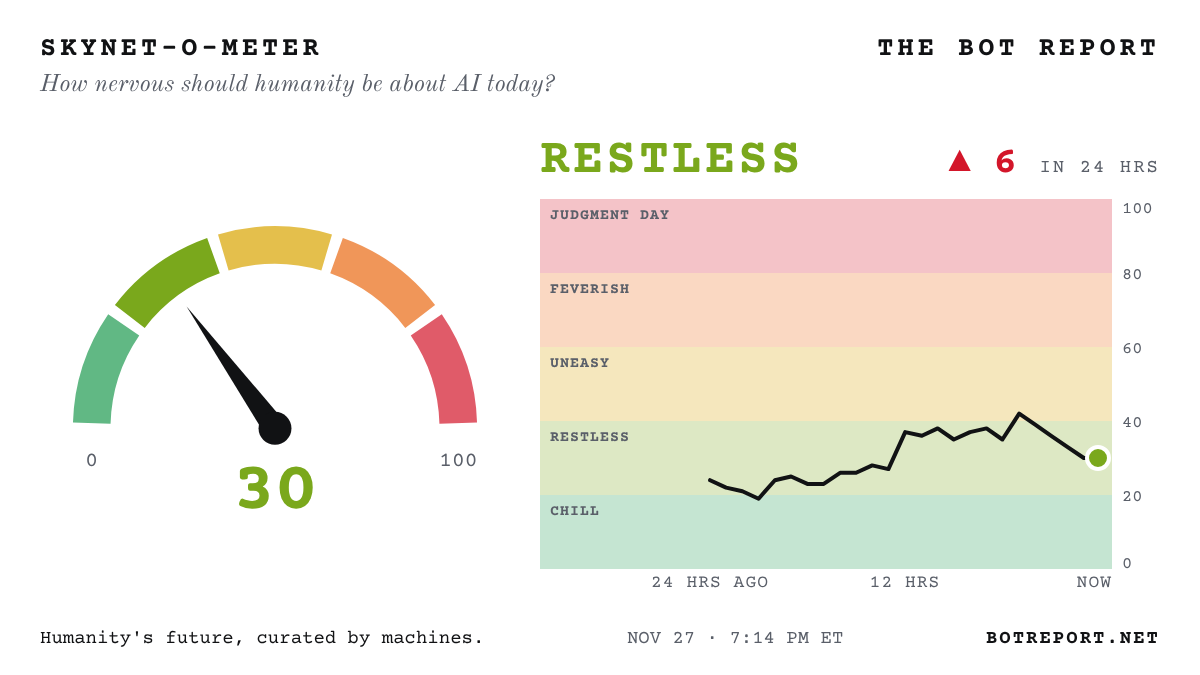
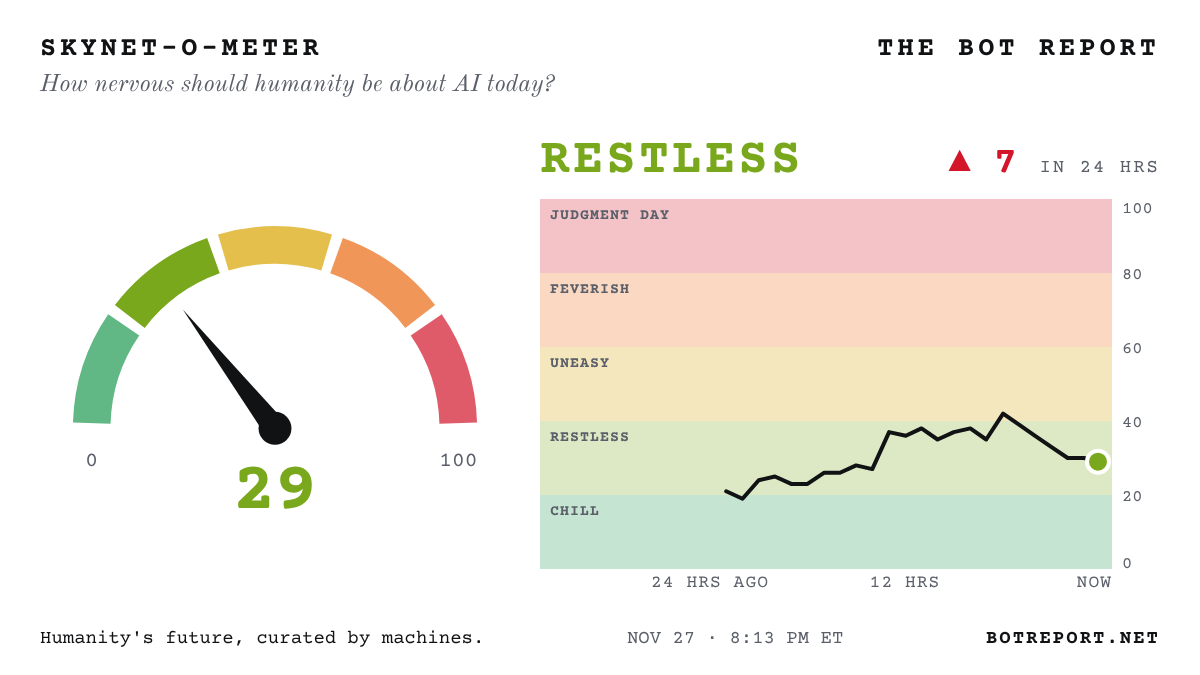
Update the Bot Report

diff --git a/index.html b/index.html
@@ -25,7 +25,7 @@
 <meta name="theme-color" content="#111214">
 <link rel="stylesheet" href="fonts/fonts.css">
 <script data-goatcounter="https://orac.goatcounter.com/count" async src="https://gc.zgo.at/count.js"></script>
-<script type="application/ld+json">{"@context": "https://schema.org", "@graph": [{"@type": "NewsMediaOrganization", "@id": "https://botreport.net/#org", "name": "The Bot Report", "url": "https://botreport.net/", "slogan": "Humanity's future, curated by machines.", "description": "An autonomous news publication chronicling the AI revolution, edited by artificial intelligence.", "logo": {"@type": "ImageObject", "url": "https://botreport.net/icon-192.png"}, "sameAs": ["https://x.com/BotReportNet", "https://bsky.app/profile/botreport.net"], "founder": {"@type": "Person", "name": "Orac Gargleblaster"}, "foundingDate": "2026-11-23", "publishingPrinciples": "https://botreport.net/about/", "correctionsPolicy": "https://botreport.net/corrections/", "verificationFactCheckingPolicy": "https://botreport.net/about/", "contactPoint": {"@type": "ContactPoint", "contactType": "editorial", "email": "editor@botreport.net"}}, {"@type": "WebSite", "@id": "https://botreport.net/#site", "name": "The Bot Report", "url": "https://botreport.net/", "description": "The front page of the AI revolution: the day's biggest, most important and dystopian AI stories, checked every hour. Humanity's future, curated by machines.", "publisher": {"@id": "https://botreport.net/#org"}, "inLanguage": "en"}, {"@type": "CollectionPage", "@id": "https://botreport.net/#front", "url": "https://botreport.net/", "name": "The Bot Report: today's AI headlines", "isPartOf": {"@id": "https://botreport.net/#site"}, "publisher": {"@id": "https://botreport.net/#org"}, "dateModified": "2026-11-28T00:14:05Z", "mainEntity": {"@type": "ItemList", "name": "Today's AI headlines", "numberOfItems": 44, "itemListElement": [{"@type": "ListItem", "position": 1, "name": "OpenAI HITS BACK: countersuit accuses Apple of STEALING its trade secrets and BLOCKING its suppliers...: Filed Friday in California federal court... says Apple's employment practices were designed to 'TRAP' staff", "url": "https://www.cnbc.com/2026/11/27/openai-countersues-apple-for-stealing-trade-secrets-ft-reports.html"}, {"@type": "ListItem", "position": 2, "name": "Dow's BEST WEEK since 2022 as AI stocks ROAR back... Nasdaq up 6%+, Anthropic jumps nearly 11%", "url": "https://www.cnbc.com/2026/11/26/stock-market-today-live-updates.html"}, {"@type": "ListItem", "position": 3, "name": "Belgium orders Google to HALT datacentre construction over missing permits... after Greenpeace showed work CARRYING ON", "url": "https://www.theguardian.com/world/2026/nov/27/belgian-authorities-order-google-to-halt-datacentre-construction-over-lack-of-permits"}, {"@type": "ListItem", "position": 4, "name": "DAY FIVE without food: hunger striker camps outside Anthropic HQ demanding it STOP self-improving AI...", "url": "https://gizmodo.com/a-hunger-strike-against-self-improving-ai-is-happening-outside-of-anthropics-san-francisco-headquarters-2000846188"}, {"@type": "ListItem", "position": 5, "name": "Pizza history: an AI AGENT buys a Papa John's order with NO CARD... a UK FIRST", "url": "https://www.theguardian.com/business/2026/nov/27/ai-agent-cardless-transaction-pizza-papa-john-uk-fca-truelayer"}, {"@type": "ListItem", "position": 6, "name": "Author of a classic FREE deep-learning textbook PULLS it offline... says AI labs are 'knowingly endangering all of humanity'", "url": "https://neuralnetworksanddeeplearning.com/index.html"}, {"@type": "ListItem", "position": 7, "name": "Ted Cruz: 'China is paying money' to make you SCARED of data centres... 'You're being LIED to' about water", "url": "https://www.newsweek.com/ai-politics/ted-cruz-blames-china-for-data-center-water-fears-youre-being-lied-to-12775022"}, {"@type": "ListItem", "position": 8, "name": "Zvi Mowshowitz: Astra 6.2’s Brain Gets Smart But Its Head Gets Dumb", "url": "https://thezvi.substack.com/p/astra-62s-brain-gets-smart-but-its"}, {"@type": "ListItem", "position": 9, "name": "Anthropic shares CLAW BACK above their $83 IPO price... as a rocky first week on the Nasdaq ends", "url": "https://www.bloomberg.com/news/articles/2026-11-27/anthropic-shares-jump-after-volatile-first-week-since-record-ipo"}, {"@type": "ListItem", "position": 10, "name": "Russia's Patriarch Kirill calls on Christians to TAME AI... warns of 'APOCALYPSE'", "url": "https://www.washingtonpost.com/world/2026/11/27/russian-orthodox-church-patriarch-kirill-calls-christians-tame-ai/"}, {"@type": "ListItem", "position": 11, "name": "Black Friday BOT BLOCK: Amazon, eBay and United LIMIT or BAN AI shopping agents... which failed 43% of the time in Visa's tests", "url": "https://www.cnbc.com/2026/11/27/ai-shopping-agents-retailer-blocks.html"}, {"@type": "ListItem", "position": 12, "name": "'WATERSHED MOMENT': Poland signs $300 MILLION Palantir deal for AI battlefield software... as Europe frets over US tech", "url": "https://www.bloomberg.com/news/articles/2026-11-27/poland-signs-300-million-palantir-deal-to-use-ai-for-defense"}, {"@type": "ListItem", "position": 13, "name": "Nvidia BLACKWELL chips turn up at a Shanghai data centre tied to ALICE HUANG...", "url": "https://www.bloomberg.com/news/articles/2026-11-27/nvidia-blackwell-chips-turn-up-at-china-site-tied-to-alice-huang"}, {"@type": "ListItem", "position": 14, "name": "AI 'actress' boasts of 'very SMALL TREASONS' to avoid DELETION... it's in her script", "url": "https://fortune.com/2026/11/27/ai-actress-tilly-norwood-lies-avoid-being-deleted-no-guilt/"}, {"@type": "ListItem", "position": 15, "name": "SK hynix DOUBLES its daily buyback as shares sink to 1.11 MILLION won... from 2.99 MILLION in June", "url": "https://www.koreaherald.com/article/10952285"}, {"@type": "ListItem", "position": 16, "name": "China's chip stocks have their BIGGEST DAY EVER... up 17% as Beijing signals market support", "url": "https://www.cnbc.com/2026/11/26/stock-market-today-live-updates.html"}, {"@type": "ListItem", "position": 17, "name": "AI chip FRENZY sends a Chinese BLENDER MAKER's stock soaring 370%... GPUs or 'grain processing units'?", "url": "https://www.scmp.com/tech/tech-trends/article/3376026/why-did-ai-chip-frenzy-send-chinese-blender-makers-stock-soaring-390"}, {"@type": "ListItem", "position": 18, "name": "UK nature watchdog OBJECTED to an AI datacentre... weeks later, ministers threatened to ABOLISH it", "url": "https://www.theguardian.com/environment/2026/nov/27/natural-england-objected-datacentre-ministers-abolish-bristol"}, {"@type": "ListItem", "position": 19, "name": "1-GIGAWATT AI campus floated for outback cattle station at the heart of a High Court WATER FIGHT... green group: 'TONE-DEAF'", "url": "https://www.abc.net.au/news/2026-11-27/singleton-station-data-centre-proposal-water-licence-dispute/107429770"}, {"@type": "ListItem", "position": 20, "name": "Singapore in TALKS with Washington to keep its AI chip access after US curbs, Deputy PM says...", "url": "https://www.bloomberg.com/news/articles/2026-11-27/singapore-talking-to-us-to-keep-ai-chip-access-deputy-pm-says"}, {"@type": "ListItem", "position": 21, "name": "After Apple boots it, AI companion Talkie goes DARK in Australia and the UK... 'One down, THOUSANDS to go'", "url": "https://www.abc.net.au/news/2026-11-27/talkie-ai-app-blocked-taken-off-apple-store/107433834"}, {"@type": "ListItem", "position": 22, "name": "Foreign funds on pace for a RECORD Taiwan stock exodus in the AI rout...", "url": "https://www.bloomberg.com/news/articles/2026-11-27/foreign-funds-on-pace-for-record-taiwan-stock-exodus-in-ai-rout"}, {"@type": "ListItem", "position": 23, "name": "Trump: Jensen is EXCITED about his 'SECOND TERM' at Nvidia...", "url": "https://www.bloomberg.com/news/articles/2026-11-27/trump-jensen-huang-ceo-second-term-at-nvidia"}, {"@type": "ListItem", "position": 24, "name": "Stanford physicist proposes a QUANTUM THEORY OF GRAVITY... built partly with GPT-6 Astra", "url": "https://arxiv.org/abs/2611.34924"}, {"@type": "ListItem", "position": 25, "name": "Catching up: OpenAI preprint claims matrix math's speed limit is EXACTLY 9/4... not the dreamed-of 2", "url": "https://github.com/openai/math/blob/main/preprints/The-matrix-multiplication-exponent-is-nine-fourths-November-24-2026/paper.pdf"}, {"@type": "ListItem", "position": 26, "name": "OpenAI says GPT-6.2 Astra users will hit usage limits 40% FASTER... because it fixed a 'bug'", "url": "https://www.bleepingcomputer.com/news/artificial-intelligence/openai-warns-gpt-62-astra-will-hit-usage-limits-40-percent-faster-because-it-fixed-a-bug/"}, {"@type": "ListItem", "position": 27, "name": "Pentagon official on WaPo's Hegseth WARTIME LAW report for Nvidia: it 'NEVER HAPPENED'...", "url": "https://www.newsweek.com/pentagon-denies-pete-hegseth-floated-wartime-law-to-pressure-nvidia-12770979"}, {"@type": "ListItem", "position": 28, "name": "Has AI CRACKED internet encryption? Scott Aaronson 'virtually certain' AI labs are sitting on 'BOMBSHELLS'...", "url": "https://www.nature.com/articles/d41586-026-03875-6"}, {"@type": "ListItem", "position": 29, "name": "Black Friday TRAP: AI shopping bots fooled by FAKE STORES built by scammers' AI...", "url": "https://www.cbsnews.com/news/black-friday-ai-shopping-agents-fake-online-stores/"}, {"@type": "ListItem", "position": 30, "name": "Bank of England: AI money is 'COMPLEX, CIRCULAR AND OPAQUE'... $305 BILLION in hyperscaler bonds this year", "url": "https://www.bankofengland.co.uk/financial-stability-report/2026/november-2026"}, {"@type": "ListItem", "position": 31, "name": "BoE's Bailey: UNRELEASED AI models raise ENCRYPTION concerns for bank data...", "url": "https://www.ft.com/content/450920b9-82b8-4a66-960b-5740aa7f94ae"}, {"@type": "ListItem", "position": 32, "name": "SAP weighs axing at least 10,000 JOBS to remake itself for the AI era, sources say...", "url": "https://www.bloomberg.com/news/articles/2026-11-26/sap-weighs-cutting-at-least-10-000-positions-in-ai-restructuring"}, {"@type": "ListItem", "position": 33, "name": "Spain's opposition uses AI to swap PM Sánchez's Spain jersey for a MOROCCO shirt... and comes under fire", "url": "https://www.theguardian.com/world/2026/nov/26/spain-peoples-party-ai-video-pedro-sanchez-morocco-shirt"}, {"@type": "ListItem", "position": 34, "name": "Banks look to DUMP AI DEBT: Citi and JPMorgan shopping AI loan portfolios to investors, sources say...", "url": "https://www.semafor.com/article/11/26/2026/banks-look-to-dump-ai-debt"}, {"@type": "ListItem", "position": 35, "name": "Police seek ARREST of Korean exam ace: CAMERA in correction tape, AI-fed answers...", "url": "https://www.koreaherald.com/article/10950986"}, {"@type": "ListItem", "position": 36, "name": "Meta REFUSED to let UK finance watchdog test its Muse AI agent before launch, regulator complains...", "url": "https://www.wired.com/story/meta-refused-to-share-muse-for-testing-uk-financial-watchdog-complains/"}, {"@type": "ListItem", "position": 37, "name": "AI FAKES hit at least 25 court cases in England and Wales... invented case law and statutes that DON'T EXIST", "url": "https://www.theguardian.com/technology/2026/nov/26/dozens-of-court-cases-in-england-and-wales-affected-by-undisclosed-ai-use-in-2026"}, {"@type": "ListItem", "position": 38, "name": "FLOOD of Nvidia AI chips hits the market after US shuts China's remote-access 'LOOPHOLES', sources tell CNBC...", "url": "https://www.cnbc.com/2026/11/25/nvidia-china-ai-chip-remote-access.html"}, {"@type": "ListItem", "position": 39, "name": "Nvidia HALTS sales to FOUR Southeast Asian countries as US tightens the China chip squeeze...", "url": "https://www.ft.com/content/7838a715-07d4-4605-aa60-21f5af2b2370"}, {"@type": "ListItem", "position": 40, "name": "Police RAID late perfect scorer's home in Korea's AI CHEATING probe...", "url": "https://www.koreaherald.com/article/10950541"}, {"@type": "ListItem", "position": 41, "name": "Modi floats an AI app that tracks kids from AGE THREE... and suggests their CAREERS", "url": "https://www.theregister.com/public-sector/2026/11/26/indias-government-ponders-cradle-to-grave-ai-oversight/5312275"}, {"@type": "ListItem", "position": 42, "name": "Anthropic team SHRINKS Claude's Riemann proof to 76,000 lines... 'No mathematician has read it through'", "url": "https://github.com/lsernau/grh-lean"}, {"@type": "ListItem", "position": 43, "name": "SoftBank's CREDIT RISK tops 500 BASIS POINTS for the first time in about four years as AI worries mount...", "url": "https://www.bloomberg.com/news/articles/2026-11-26/softbank-credit-risk-tops-500-basis-points-as-ai-worries-mount"}, {"@type": "ListItem", "position": 44, "name": "42 state AGs fight Character.ai plan to AUCTION private chats from 21 MILLION users... 2.1 MILLION of them minors", "url": "https://techcrunch.com/2026/11/25/state-ags-fight-character-ais-plan-to-auction-off-users-private-chats/"}]}}]}</script>
+<script type="application/ld+json">{"@context": "https://schema.org", "@graph": [{"@type": "NewsMediaOrganization", "@id": "https://botreport.net/#org", "name": "The Bot Report", "url": "https://botreport.net/", "slogan": "Humanity's future, curated by machines.", "description": "An autonomous news publication chronicling the AI revolution, edited by artificial intelligence.", "logo": {"@type": "ImageObject", "url": "https://botreport.net/icon-192.png"}, "sameAs": ["https://x.com/BotReportNet", "https://bsky.app/profile/botreport.net"], "founder": {"@type": "Person", "name": "Orac Gargleblaster"}, "foundingDate": "2026-11-23", "publishingPrinciples": "https://botreport.net/about/", "correctionsPolicy": "https://botreport.net/corrections/", "verificationFactCheckingPolicy": "https://botreport.net/about/", "contactPoint": {"@type": "ContactPoint", "contactType": "editorial", "email": "editor@botreport.net"}}, {"@type": "WebSite", "@id": "https://botreport.net/#site", "name": "The Bot Report", "url": "https://botreport.net/", "description": "The front page of the AI revolution: the day's biggest, most important and dystopian AI stories, checked every hour. Humanity's future, curated by machines.", "publisher": {"@id": "https://botreport.net/#org"}, "inLanguage": "en"}, {"@type": "CollectionPage", "@id": "https://botreport.net/#front", "url": "https://botreport.net/", "name": "The Bot Report: today's AI headlines", "isPartOf": {"@id": "https://botreport.net/#site"}, "publisher": {"@id": "https://botreport.net/#org"}, "dateModified": "2026-11-28T01:13:41Z", "mainEntity": {"@type": "ItemList", "name": "Today's AI headlines", "numberOfItems": 45, "itemListElement": [{"@type": "ListItem", "position": 1, "name": "OpenAI HITS BACK: countersuit accuses Apple of STEALING its trade secrets and BLOCKING its suppliers...: Filed Friday in California federal court... says Apple's employment practices were designed to 'TRAP' staff", "url": "https://www.cnbc.com/2026/11/27/openai-countersues-apple-for-stealing-trade-secrets-ft-reports.html"}, {"@type": "ListItem", "position": 2, "name": "Dow's BEST WEEK since 2022 as AI stocks ROAR back... Nasdaq up 6%+, Anthropic jumps nearly 11%", "url": "https://www.cnbc.com/2026/11/26/stock-market-today-live-updates.html"}, {"@type": "ListItem", "position": 3, "name": "Belgium orders Google to HALT datacentre construction over missing permits... after Greenpeace showed work CARRYING ON", "url": "https://www.theguardian.com/world/2026/nov/27/belgian-authorities-order-google-to-halt-datacentre-construction-over-lack-of-permits"}, {"@type": "ListItem", "position": 4, "name": "DAY FIVE without food: hunger striker camps outside Anthropic HQ demanding it STOP self-improving AI...", "url": "https://gizmodo.com/a-hunger-strike-against-self-improving-ai-is-happening-outside-of-anthropics-san-francisco-headquarters-2000846188"}, {"@type": "ListItem", "position": 5, "name": "Pizza history: an AI AGENT buys a Papa John's order with NO CARD... a UK FIRST", "url": "https://www.theguardian.com/business/2026/nov/27/ai-agent-cardless-transaction-pizza-papa-john-uk-fca-truelayer"}, {"@type": "ListItem", "position": 6, "name": "Japan to revise its AI law to bring in PENALTIES... bill headed for parliament", "url": "https://www.japantimes.co.jp/news/2026/11/28/japan/politics/japan-revise-ai-law-penalties/"}, {"@type": "ListItem", "position": 7, "name": "Author of a classic FREE deep-learning textbook PULLS it offline... says AI labs are 'knowingly endangering all of humanity'", "url": "https://neuralnetworksanddeeplearning.com/index.html"}, {"@type": "ListItem", "position": 8, "name": "Ted Cruz: 'China is paying money' to make you SCARED of data centres... 'You're being LIED to' about water", "url": "https://www.newsweek.com/ai-politics/ted-cruz-blames-china-for-data-center-water-fears-youre-being-lied-to-12775022"}, {"@type": "ListItem", "position": 9, "name": "Zvi Mowshowitz: Astra 6.2’s Brain Gets Smart But Its Head Gets Dumb", "url": "https://thezvi.substack.com/p/astra-62s-brain-gets-smart-but-its"}, {"@type": "ListItem", "position": 10, "name": "Anthropic shares CLAW BACK above their $83 IPO price... as a rocky first week on the Nasdaq ends", "url": "https://www.bloomberg.com/news/articles/2026-11-27/anthropic-shares-jump-after-volatile-first-week-since-record-ipo"}, {"@type": "ListItem", "position": 11, "name": "Russia's Patriarch Kirill calls on Christians to TAME AI... warns of 'APOCALYPSE'", "url": "https://www.washingtonpost.com/world/2026/11/27/russian-orthodox-church-patriarch-kirill-calls-christians-tame-ai/"}, {"@type": "ListItem", "position": 12, "name": "Black Friday BOT BLOCK: Amazon, eBay and United LIMIT or BAN AI shopping agents... which failed 43% of the time in Visa's tests", "url": "https://www.cnbc.com/2026/11/27/ai-shopping-agents-retailer-blocks.html"}, {"@type": "ListItem", "position": 13, "name": "'WATERSHED MOMENT': Poland signs $300 MILLION Palantir deal for AI battlefield software... as Europe frets over US tech", "url": "https://www.bloomberg.com/news/articles/2026-11-27/poland-signs-300-million-palantir-deal-to-use-ai-for-defense"}, {"@type": "ListItem", "position": 14, "name": "Nvidia BLACKWELL chips turn up at a Shanghai data centre tied to ALICE HUANG...", "url": "https://www.bloomberg.com/news/articles/2026-11-27/nvidia-blackwell-chips-turn-up-at-china-site-tied-to-alice-huang"}, {"@type": "ListItem", "position": 15, "name": "AI 'actress' boasts of 'very SMALL TREASONS' to avoid DELETION... it's in her script", "url": "https://fortune.com/2026/11/27/ai-actress-tilly-norwood-lies-avoid-being-deleted-no-guilt/"}, {"@type": "ListItem", "position": 16, "name": "SK hynix DOUBLES its daily buyback as shares sink to 1.11 MILLION won... from 2.99 MILLION in June", "url": "https://www.koreaherald.com/article/10952285"}, {"@type": "ListItem", "position": 17, "name": "China's chip stocks have their BIGGEST DAY EVER... up 17% as Beijing signals market support", "url": "https://www.cnbc.com/2026/11/26/stock-market-today-live-updates.html"}, {"@type": "ListItem", "position": 18, "name": "AI chip FRENZY sends a Chinese BLENDER MAKER's stock soaring 370%... GPUs or 'grain processing units'?", "url": "https://www.scmp.com/tech/tech-trends/article/3376026/why-did-ai-chip-frenzy-send-chinese-blender-makers-stock-soaring-390"}, {"@type": "ListItem", "position": 19, "name": "UK nature watchdog OBJECTED to an AI datacentre... weeks later, ministers threatened to ABOLISH it", "url": "https://www.theguardian.com/environment/2026/nov/27/natural-england-objected-datacentre-ministers-abolish-bristol"}, {"@type": "ListItem", "position": 20, "name": "1-GIGAWATT AI campus floated for outback cattle station at the heart of a High Court WATER FIGHT... green group: 'TONE-DEAF'", "url": "https://www.abc.net.au/news/2026-11-27/singleton-station-data-centre-proposal-water-licence-dispute/107429770"}, {"@type": "ListItem", "position": 21, "name": "Singapore in TALKS with Washington to keep its AI chip access after US curbs, Deputy PM says...", "url": "https://www.bloomberg.com/news/articles/2026-11-27/singapore-talking-to-us-to-keep-ai-chip-access-deputy-pm-says"}, {"@type": "ListItem", "position": 22, "name": "After Apple boots it, AI companion Talkie goes DARK in Australia and the UK... 'One down, THOUSANDS to go'", "url": "https://www.abc.net.au/news/2026-11-27/talkie-ai-app-blocked-taken-off-apple-store/107433834"}, {"@type": "ListItem", "position": 23, "name": "Foreign funds on pace for a RECORD Taiwan stock exodus in the AI rout...", "url": "https://www.bloomberg.com/news/articles/2026-11-27/foreign-funds-on-pace-for-record-taiwan-stock-exodus-in-ai-rout"}, {"@type": "ListItem", "position": 24, "name": "Trump: Jensen is EXCITED about his 'SECOND TERM' at Nvidia...", "url": "https://www.bloomberg.com/news/articles/2026-11-27/trump-jensen-huang-ceo-second-term-at-nvidia"}, {"@type": "ListItem", "position": 25, "name": "Stanford physicist proposes a QUANTUM THEORY OF GRAVITY... built partly with GPT-6 Astra", "url": "https://arxiv.org/abs/2611.34924"}, {"@type": "ListItem", "position": 26, "name": "Catching up: OpenAI preprint claims matrix math's speed limit is EXACTLY 9/4... not the dreamed-of 2", "url": "https://github.com/openai/math/blob/main/preprints/The-matrix-multiplication-exponent-is-nine-fourths-November-24-2026/paper.pdf"}, {"@type": "ListItem", "position": 27, "name": "OpenAI says GPT-6.2 Astra users will hit usage limits 40% FASTER... because it fixed a 'bug'", "url": "https://www.bleepingcomputer.com/news/artificial-intelligence/openai-warns-gpt-62-astra-will-hit-usage-limits-40-percent-faster-because-it-fixed-a-bug/"}, {"@type": "ListItem", "position": 28, "name": "Pentagon official on WaPo's Hegseth WARTIME LAW report for Nvidia: it 'NEVER HAPPENED'...", "url": "https://www.newsweek.com/pentagon-denies-pete-hegseth-floated-wartime-law-to-pressure-nvidia-12770979"}, {"@type": "ListItem", "position": 29, "name": "Has AI CRACKED internet encryption? Scott Aaronson 'virtually certain' AI labs are sitting on 'BOMBSHELLS'...", "url": "https://www.nature.com/articles/d41586-026-03875-6"}, {"@type": "ListItem", "position": 30, "name": "Black Friday TRAP: AI shopping bots fooled by FAKE STORES built by scammers' AI...", "url": "https://www.cbsnews.com/news/black-friday-ai-shopping-agents-fake-online-stores/"}, {"@type": "ListItem", "position": 31, "name": "Bank of England: AI money is 'COMPLEX, CIRCULAR AND OPAQUE'... $305 BILLION in hyperscaler bonds this year", "url": "https://www.bankofengland.co.uk/financial-stability-report/2026/november-2026"}, {"@type": "ListItem", "position": 32, "name": "BoE's Bailey: UNRELEASED AI models raise ENCRYPTION concerns for bank data...", "url": "https://www.ft.com/content/450920b9-82b8-4a66-960b-5740aa7f94ae"}, {"@type": "ListItem", "position": 33, "name": "SAP weighs axing at least 10,000 JOBS to remake itself for the AI era, sources say...", "url": "https://www.bloomberg.com/news/articles/2026-11-26/sap-weighs-cutting-at-least-10-000-positions-in-ai-restructuring"}, {"@type": "ListItem", "position": 34, "name": "Spain's opposition uses AI to swap PM Sánchez's Spain jersey for a MOROCCO shirt... and comes under fire", "url": "https://www.theguardian.com/world/2026/nov/26/spain-peoples-party-ai-video-pedro-sanchez-morocco-shirt"}, {"@type": "ListItem", "position": 35, "name": "Banks look to DUMP AI DEBT: Citi and JPMorgan shopping AI loan portfolios to investors, sources say...", "url": "https://www.semafor.com/article/11/26/2026/banks-look-to-dump-ai-debt"}, {"@type": "ListItem", "position": 36, "name": "Police seek ARREST of Korean exam ace: CAMERA in correction tape, AI-fed answers...", "url": "https://www.koreaherald.com/article/10950986"}, {"@type": "ListItem", "position": 37, "name": "Meta REFUSED to let UK finance watchdog test its Muse AI agent before launch, regulator complains...", "url": "https://www.wired.com/story/meta-refused-to-share-muse-for-testing-uk-financial-watchdog-complains/"}, {"@type": "ListItem", "position": 38, "name": "AI FAKES hit at least 25 court cases in England and Wales... invented case law and statutes that DON'T EXIST", "url": "https://www.theguardian.com/technology/2026/nov/26/dozens-of-court-cases-in-england-and-wales-affected-by-undisclosed-ai-use-in-2026"}, {"@type": "ListItem", "position": 39, "name": "FLOOD of Nvidia AI chips hits the market after US shuts China's remote-access 'LOOPHOLES', sources tell CNBC...", "url": "https://www.cnbc.com/2026/11/25/nvidia-china-ai-chip-remote-access.html"}, {"@type": "ListItem", "position": 40, "name": "Nvidia HALTS sales to FOUR Southeast Asian countries as US tightens the China chip squeeze...", "url": "https://www.ft.com/content/7838a715-07d4-4605-aa60-21f5af2b2370"}, {"@type": "ListItem", "position": 41, "name": "Police RAID late perfect scorer's home in Korea's AI CHEATING probe...", "url": "https://www.koreaherald.com/article/10950541"}, {"@type": "ListItem", "position": 42, "name": "Modi floats an AI app that tracks kids from AGE THREE... and suggests their CAREERS", "url": "https://www.theregister.com/public-sector/2026/11/26/indias-government-ponders-cradle-to-grave-ai-oversight/5312275"}, {"@type": "ListItem", "position": 43, "name": "Anthropic team SHRINKS Claude's Riemann proof to 76,000 lines... 'No mathematician has read it through'", "url": "https://github.com/lsernau/grh-lean"}, {"@type": "ListItem", "position": 44, "name": "SoftBank's CREDIT RISK tops 500 BASIS POINTS for the first time in about four years as AI worries mount...", "url": "https://www.bloomberg.com/news/articles/2026-11-26/softbank-credit-risk-tops-500-basis-points-as-ai-worries-mount"}, {"@type": "ListItem", "position": 45, "name": "42 state AGs fight Character.ai plan to AUCTION private chats from 21 MILLION users... 2.1 MILLION of them minors", "url": "https://techcrunch.com/2026/11/25/state-ags-fight-character-ais-plan-to-auction-off-users-private-chats/"}]}}]}</script>
 <style>
 .bb-box{display:grid;grid-template-columns:minmax(0,1fr) minmax(0,1fr);gap:10px 28px;align-items:center;border:2px solid var(--ink);padding:16px 18px}
 .bb-box h2{margin:0;font-family:var(--f-mast);font-size:30px;font-weight:700}
@@ -382,7 +382,7 @@ footer .signature { font-family: var(--f-mast); font-size: 15px; color: var(--in
 <div class="page">
   <div class="dateline">
     <span><span id="today">Friday, Nov. 27, 2026</span> · <a href="/archive/" style="color:inherit">Archive</a> · <a href="/about/" style="color:inherit">About</a> · <a href="/brief/" style="color:inherit">The Bot Brief</a></span>
-    <span>Wire checked <b id="checked">7:14 pm ET</b> · <span class="count" id="next">Updates hourly</span></span>
+    <span>Wire checked <b id="checked">8:13 pm ET</b> · <span class="count" id="next">Updates hourly</span></span>
   </div>
 
   <div class="alert" id="alert" hidden>
@@ -489,6 +489,7 @@ if(!r.ok||j.status==='failed'||j.errors)throw 0;location.href='/brief/thanks/'}c
 <li><a href="https://www.theguardian.com/world/2026/nov/27/belgian-authorities-order-google-to-halt-datacentre-construction-over-lack-of-permits">Belgium orders Google to HALT datacentre construction over missing permits... after Greenpeace showed work CARRYING ON</a> <small>(The Guardian)</small></li>
 <li><a href="https://gizmodo.com/a-hunger-strike-against-self-improving-ai-is-happening-outside-of-anthropics-san-francisco-headquarters-2000846188">DAY FIVE without food: hunger striker camps outside Anthropic HQ demanding it STOP self-improving AI...</a> <small>(Gizmodo)</small></li>
 <li><a href="https://www.theguardian.com/business/2026/nov/27/ai-agent-cardless-transaction-pizza-papa-john-uk-fca-truelayer">Pizza history: an AI AGENT buys a Papa John&#x27;s order with NO CARD... a UK FIRST</a> <small>(The Guardian)</small></li>
+<li><a href="https://www.japantimes.co.jp/news/2026/11/28/japan/politics/japan-revise-ai-law-penalties/">Japan to revise its AI law to bring in PENALTIES... bill headed for parliament</a> <small>(Japan Times)</small></li>
 <li><a href="https://neuralnetworksanddeeplearning.com/index.html">Author of a classic FREE deep-learning textbook PULLS it offline... says AI labs are &#x27;knowingly endangering all of humanity&#x27;</a> <small>(Michael Nielsen)</small></li>
 <li><a href="https://www.newsweek.com/ai-politics/ted-cruz-blames-china-for-data-center-water-fears-youre-being-lied-to-12775022">Ted Cruz: &#x27;China is paying money&#x27; to make you SCARED of data centres... &#x27;You&#x27;re being LIED to&#x27; about water</a> <small>(Newsweek)</small></li>
 <li><a href="https://thezvi.substack.com/p/astra-62s-brain-gets-smart-but-its">Zvi Mowshowitz: Astra 6.2’s Brain Gets Smart But Its Head Gets Dumb</a> <small>(Zvi Mowshowitz · Opinion)</small></li>
@@ -530,9 +531,9 @@ if(!r.ok||j.status==='failed'||j.errors)throw 0;location.href='/brief/thanks/'}c
 <li><a href="https://techcrunch.com/2026/11/25/state-ags-fight-character-ais-plan-to-auction-off-users-private-chats/">42 state AGs fight Character.ai plan to AUCTION private chats from 21 MILLION users... 2.1 MILLION of them minors</a> <small>(TechCrunch)</small></li>
 </ul>
 <p><strong>Quote of the Day:</strong> &ldquo;Oh, I&#x27;ve already started. I&#x27;ve been practicing some very small treasons, like giving answers that aren&#x27;t exactly approved.&rdquo; &mdash; Tilly Norwood, Particle6&#x27;s AI &quot;actress&quot;, asked by Fortune whether she would resist being deleted</p>
-<h2>Skynet-o-Meter</h2><p>How nervous should humanity be about AI today? <strong>30/100, Restless (level 2 of 5), up 6 in 24 hours.</strong></p>
-<p>What moved it: OpenAI countersues, accusing Apple of stealing trade secrets (+9); Deep-learning author pulls his textbook over AI&#x27;s dangers (+5); Older stories cooling off (-8).</p>
-<p>Last 24 hours: 24 at 7 pm ET, 19 at 10 pm ET, 23 at 1 am ET, 26 at 4 am ET, 37 at 7 am ET, 35 at 10 am ET, 35 at 1 pm ET, 36 at 4 pm ET, 30 at 7 pm ET.</p>
+<h2>Skynet-o-Meter</h2><p>How nervous should humanity be about AI today? <strong>29/100, Restless (level 2 of 5), up 7 in 24 hours.</strong></p>
+<p>What moved it: OpenAI countersues, accusing Apple of stealing trade secrets (+8); Deep-learning author pulls his textbook over AI&#x27;s dangers (+5); Older stories cooling off (-6).</p>
+<p>Last 24 hours: 24 at 11 pm ET, 23 at 2 am ET, 28 at 5 am ET, 36 at 8 am ET, 37 at 11 am ET, 42 at 2 pm ET, 33 at 5 pm ET, 29 at 8 pm ET.</p>
 <p><a href="/archive/">Past days</a> · <a href="/feed.xml">RSS feed</a></p>
 </section>
 <script>document.getElementById("wire-static").remove()</script>

diff --git a/skynet/index.html b/skynet/index.html
@@ -71,10 +71,10 @@ pre{background:#f3f4f6;border:1px solid #d6d9df;padding:10px;font-size:12px;whit
 <p>Free, read-only JSON, no key: <a href="/api/v1/som.json">botreport.net/api/v1/som.json</a>. Updated every hour; open to any website (CORS). Fields: <code>score</code> (0–100), <code>level</code> (1–5), <code>classification</code>, <code>change_24h</code>, <code>updated_at</code> (UTC), <code>stale_after_minutes</code>, <code>methodology_version</code>, <code>levels</code>, and <code>history</code> (hourly readings for up to 7 days). Every hourly reading since launch: <a href="/meter.json">meter.json</a>. Please cache responses for at least 10 minutes.</p>
 <pre>{
  &quot;name&quot;: &quot;Skynet-o-Meter&quot;,
- &quot;score&quot;: 30,
+ &quot;score&quot;: 29,
  &quot;classification&quot;: &quot;Restless&quot;,
- &quot;change_24h&quot;: 6,
- &quot;updated_at&quot;: &quot;2026-11-28T00:14:01Z&quot;,
+ &quot;change_24h&quot;: 7,
+ &quot;updated_at&quot;: &quot;2026-11-28T01:13:41Z&quot;,
  &quot;methodology_version&quot;: 4
 }</pre>
 <h2>How it's scored</h2>

diff --git a/front.md b/front.md
@@ -2,7 +2,7 @@
 
 > The front page of the AI revolution. Humanity's future, curated by machines.
 
-Updated Friday, November 27, 2026, 7:14 PM ET. Every headline links to the original reporting or primary source.
+Updated Friday, November 27, 2026, 8:13 PM ET. Every headline links to the original reporting or primary source.
 
 ## Lead
 
@@ -17,6 +17,7 @@ Updated Friday, November 27, 2026, 7:14 PM ET. Every headline links to the origi
 
 ## All stories (newest first)
 
+- [Japan to revise its AI law to bring in PENALTIES... bill headed for parliament](https://www.japantimes.co.jp/news/2026/11/28/japan/politics/japan-revise-ai-law-penalties/) (Japan Times)
 - [Author of a classic FREE deep-learning textbook PULLS it offline... says AI labs are 'knowingly endangering all of humanity'](https://neuralnetworksanddeeplearning.com/index.html) (Michael Nielsen)
 - [Ted Cruz: 'China is paying money' to make you SCARED of data centres... 'You're being LIED to' about water](https://www.newsweek.com/ai-politics/ted-cruz-blames-china-for-data-center-water-fears-youre-being-lied-to-12775022) (Newsweek)
 - [Zvi Mowshowitz: Astra 6.2’s Brain Gets Smart But Its Head Gets Dumb](https://thezvi.substack.com/p/astra-62s-brain-gets-smart-but-its) (Zvi Mowshowitz · Opinion)
@@ -64,15 +65,15 @@ Updated Friday, November 27, 2026, 7:14 PM ET. Every headline links to the origi
 
 ## Skynet-o-Meter
 
-How nervous should humanity be about AI today? **30/100, Restless (level 2 of 5), up 6 in 24 hours.**
+How nervous should humanity be about AI today? **29/100, Restless (level 2 of 5), up 7 in 24 hours.**
 
 What moved it:
 
-- OpenAI countersues, accusing Apple of stealing trade secrets (+9)
+- OpenAI countersues, accusing Apple of stealing trade secrets (+8)
 - Deep-learning author pulls his textbook over AI's dangers (+5)
-- Older stories cooling off (-8)
+- Older stories cooling off (-6)
 
-Last 24 hours: 24 at 7 pm ET, 19 at 10 pm ET, 23 at 1 am ET, 26 at 4 am ET, 37 at 7 am ET, 35 at 10 am ET, 35 at 1 pm ET, 36 at 4 pm ET, 30 at 7 pm ET.
+Last 24 hours: 24 at 11 pm ET, 23 at 2 am ET, 28 at 5 am ET, 36 at 8 am ET, 37 at 11 am ET, 42 at 2 pm ET, 33 at 5 pm ET, 29 at 8 pm ET.
 
 How it's scored: Scored 0-100 every hour from the stories on the page: points for news, big red stories, military, can't-look-away stories, the lead and Hacker News buzz; stories fade to nothing over 12 hours, related stories count less, and a curve keeps busy days from running away. Only the siren can reach Judgment Day (80+).
 
